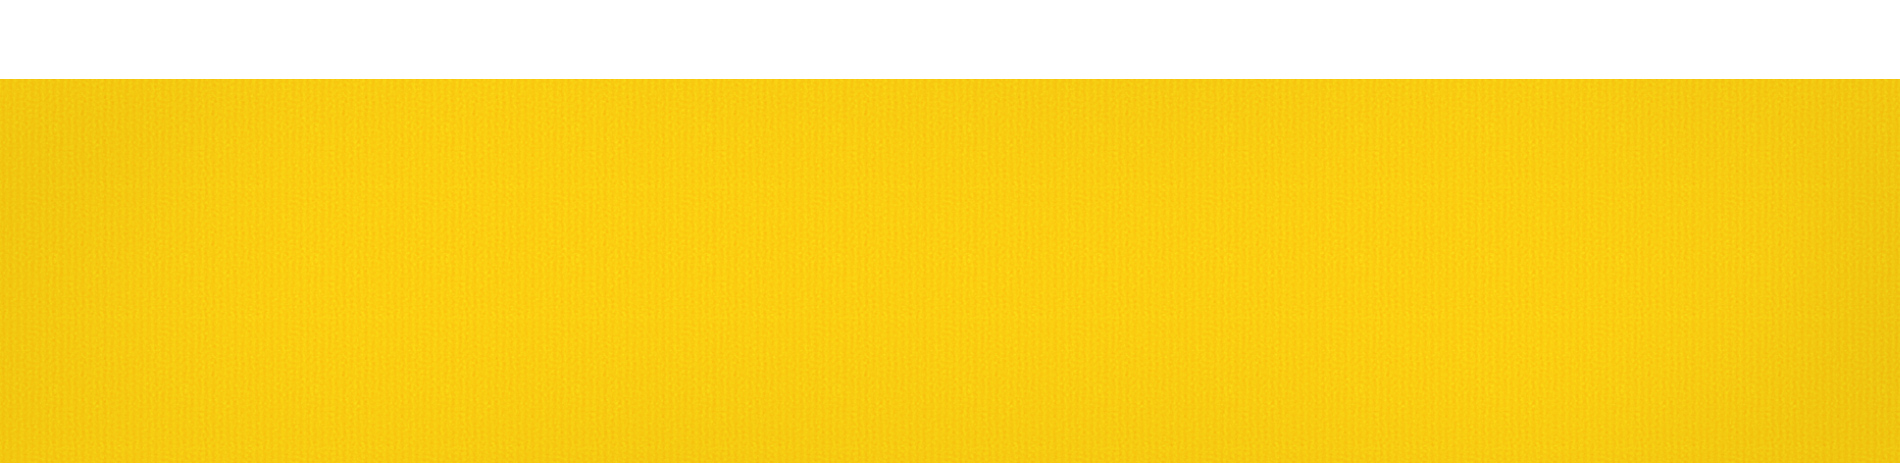
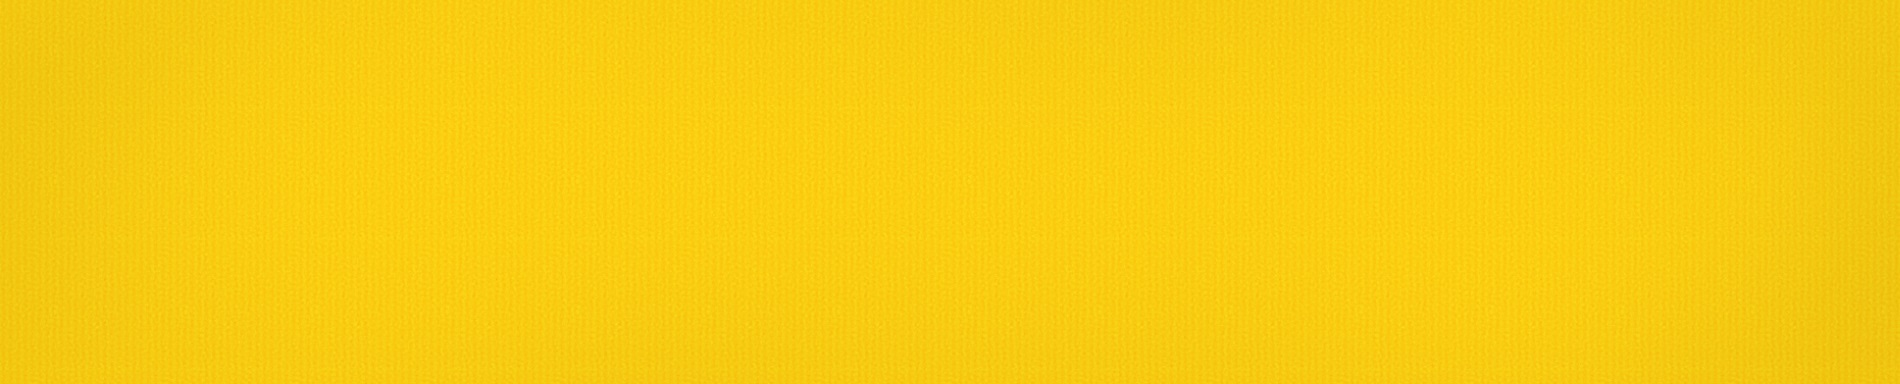
fixes to landing page

Changed region(s): [[0.0, 0.0, 1.0, 0.1875]]

diff --git a/src/Components/Footer/Footer.js b/src/Components/Footer/Footer.js
@@ -7,7 +7,8 @@ class Footer extends Component {
       name: "",
       email: "",
       message: "",
-      success: false
+      success: false,
+      error: false
     };
   }
 
@@ -21,21 +22,40 @@ class Footer extends Component {
     e.preventDefault();
     if (
       this.state.name != "" &&
-      this.state.email != "" &&
+      (this.state.email != "" &&
+        this.state.email.includes("@") &&
+        this.state.email.includes(".")) &&
       this.state.message != ""
     ) {
-      this.setState({
-        success: true,
-        name: "",
-        email: "",
-        message: ""
-      },()=> {
-        this.timer = setTimeout(() => {
-          this.setState({
-            success: false
-          });
-        }, 5000);
-      });
+      this.setState(
+        {
+          success: true,
+          name: "",
+          email: "",
+          message: ""
+        },
+        () => {
+          this.timer = setTimeout(() => {
+            this.setState({
+              success: false,
+              error: false
+            });
+          }, 1000);
+        }
+      );
+    } else {
+      this.setState(
+        {
+          error: true
+        },
+        () => {
+          this.timer = setTimeout(() => {
+            this.setState({
+              error: false
+            });
+          }, 1000);
+        }
+      );
     }
   };
 
@@ -46,7 +66,7 @@ class Footer extends Component {
   render() {
     return (
       <footer id="Footer">
-        <form className="footer__wrapper">
+        <div className="footer__wrapper">
           <span>Skontaktuj się z nami</span>
           <img src="../img/decoration.png" />
           <div className="contact__form">
@@ -74,10 +94,23 @@ class Footer extends Component {
               value={this.state.message}
               onChange={e => this.changeForm(e, "message")}
             />
-            <input type="submit" value="Wyślij" onClick={this.ValidateSubmit}/>
+            <input type="submit" value="Wyślij" onClick={this.ValidateSubmit} />
           </div>
-          {this.state.success ? <span style={{color: 'red'}}>Formularz wysłany, dzięki</span> : <p>Uzupełnij formularz</p>}
-        </form>
+          {this.state.success && (
+            <span style={{ color: "red" }}>Formularz wysłany, dzięki</span>
+          )}
+          {this.state.error && (
+            <span style={{ color: "red" }}>Uzupełnij pola formularza</span>
+          )}
+        </div>
+        <div className="footer__social">
+          <a href="https://www.facebook.com/" target="_blank">
+            <img src="../img/fb.png" />
+          </a>
+          <a href="https://www.instagram.com/" target="_blank">
+            <img src="../img/insta.png" />
+          </a>
+        </div>
       </footer>
     );
   }

diff --git a/src/Components/Header/Header.js b/src/Components/Header/Header.js
@@ -2,27 +2,34 @@ import React, { Component } from "react";
 import { Link, animateScroll as scroll } from "react-scroll";
 import { Login } from "../Login/Login";
 
-class Header extends Component {
+const BgBeforeLog = {
+  backgroundImage: "url('../img/header_start_img.jpg')"
+};
 
+const BgAfterLog = {
+  backgroundImage: "url('../img/header_logged_img.jpg')"
+};
+
+class Header extends Component {
   constructor(props) {
     super(props);
-    this.state={
+    this.state = {
       showLoginPanel: false
-    }
+    };
   }
 
   ShowLoginPanel = () => {
-    this.setState(prevState=>{
+    this.setState(prevState => {
       return {
         showLoginPanel: !prevState.showLoginPanel
-      }
-    })
-  }
+      };
+    });
+  };
 
   render() {
     // {this.props.user ? zalogowany : niezalogowany}
     return (
-      <header>
+      <header style={this.props.user ? BgAfterLog : BgBeforeLog}>
         <div className="login__buttons">
           <button>Zaloguj się</button>
           <button>Załóż konto</button>

diff --git a/scss/partials/_header.scss b/scss/partials/_header.scss
@@ -1,6 +1,5 @@
 header {
   max-width: calc(100% - 200px);
-  background-image: url("../img/header_start_img.jpg");
   background-repeat: no-repeat;
   background-size: 100% 100%;
   height: 100%;
@@ -9,7 +8,7 @@ header {
   flex-direction: column;
   align-items: flex-end;
   .login__buttons {
-    margin: 25px 0;
+    margin: $default-margin;
     button {
       border: 2px solid rgba(245, 209, 6, 0);
       background: #fff;
@@ -42,16 +41,16 @@ header {
     display: flex;
     flex-direction: column;
     align-items: center;
-    margin-top: 50px;
+    margin: $default-margin;
     font-size: 1.5em;
     font-weight: lighter;
     img {
-      margin-top: 30px;
+      margin: $default-margin;
     }
     .header__buttons {
       display: flex;
       justify-content: center;
-      margin-top: 50px;
+      margin: $default-margin;
       button {
         border: 1px solid rgba(0, 0, 0, 1);
         background: #fff;

diff --git a/scss/partials/_footer.scss b/scss/partials/_footer.scss
@@ -13,9 +13,8 @@ footer {
     justify-content: center;
     align-items: center;
     margin: auto 0;
-    margin-right: 150px;
+    margin-right: 5%;
     span {
-      text-align: center;
       font-size: 1.5em;
     }
   }
@@ -35,7 +34,7 @@ footer {
       padding: 20px;
     }
     input[type="submit"] {
-      margin-top: 25px;
+      margin: $default-margin;
       border: 1px solid #000;
     }
     div {
@@ -50,7 +49,13 @@ footer {
       border: 1px solid #000;
       padding: 15px;
       background: transparent;
-      margin-top: 20px;
+      margin: $default-margin;
+    }
+  }
+  .footer__social {
+    margin-right: 5%;
+    img {
+     margin: 25px;
     }
   }
 }

diff --git a/scss/partials/_begin.scss b/scss/partials/_begin.scss
@@ -4,7 +4,7 @@
   justify-content: center;
   align-items: center;
   width: 100%;
-  margin: 20px 0;
+  margin: $default-margin;
   .begin__info {
     background: #ebebeb;
     display: flex;
@@ -31,12 +31,12 @@
     font-size: 1.5em;
   }
   img {
-    margin: 30px 0;
+    margin: $default-margin;
   }
   button {
     border: 1px solid black;
     background: #fff;
-    margin: 20px 0;
+    margin: $default-margin;
     font-size: 1em;
     width: 250px;
     padding: 25px;

diff --git a/scss/partials/_funds.scss b/scss/partials/_funds.scss
@@ -3,12 +3,12 @@
   flex-direction: column;
   align-items: center;
   justify-content: center;
-  margin-top: 50px;
+  margin: $default-margin;
   span {
     font-size: 1.5em;
   }
   img {
-    margin: 25px 0;
+    margin: $default-margin;
   }
   .funds__buttons {
     display: flex;
@@ -29,6 +29,6 @@
   p {
       width: 500px;
       text-align: center;
-      margin-bottom: 20px;
+      margin: $default-margin;
   }
 }

diff --git a/scss/partials/_infobar.scss b/scss/partials/_infobar.scss
@@ -3,9 +3,8 @@
   justify-content: space-evenly;
   align-items: center;
   width: 100%;
-  height: 50%;
+  padding: 75px 0;
   background-image: url("../img/bg_yellow.jpg");
-  background-repeat: no-repeat;
   background-size: 100% 100%;
   .infobar__square {
     display: flex;

diff --git a/scss/partials/_login.scss b/scss/partials/_login.scss
@@ -19,7 +19,7 @@
     align-items: center;
     justify-content: center;
     button:nth-child(2) {
-      margin-top: 35px;
+      margin: $default-margin;
     }
     button {
       border: 1px solid rgba(0, 0, 0, 1);

diff --git a/scss/style.scss b/scss/style.scss
@@ -1,3 +1,5 @@
+$default-margin: 25px 0;
+
 @import "partials/header";
 @import "partials/infobar";
 @import "partials/begin";
